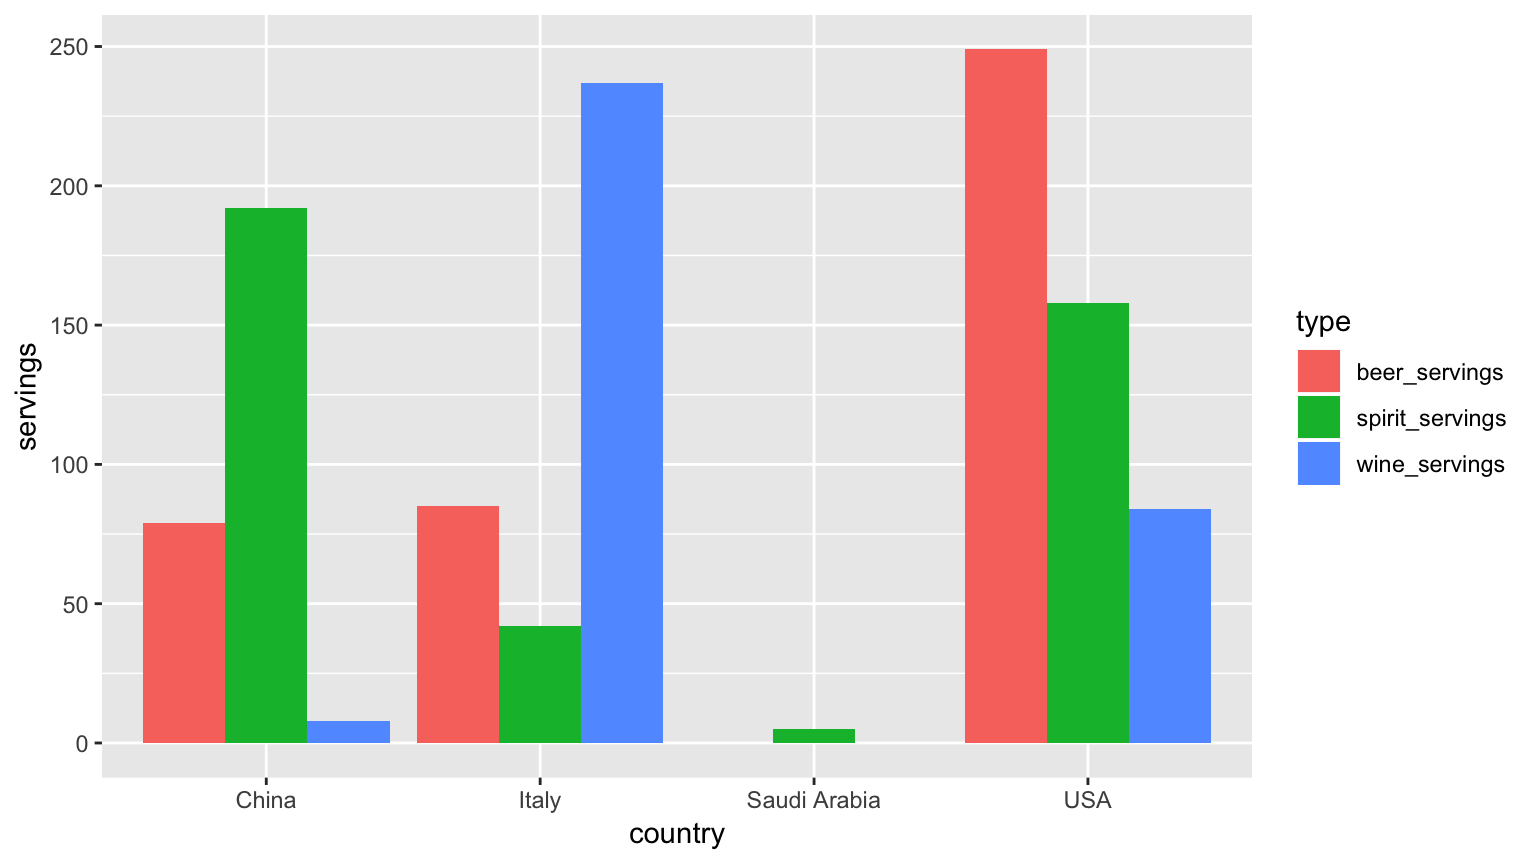
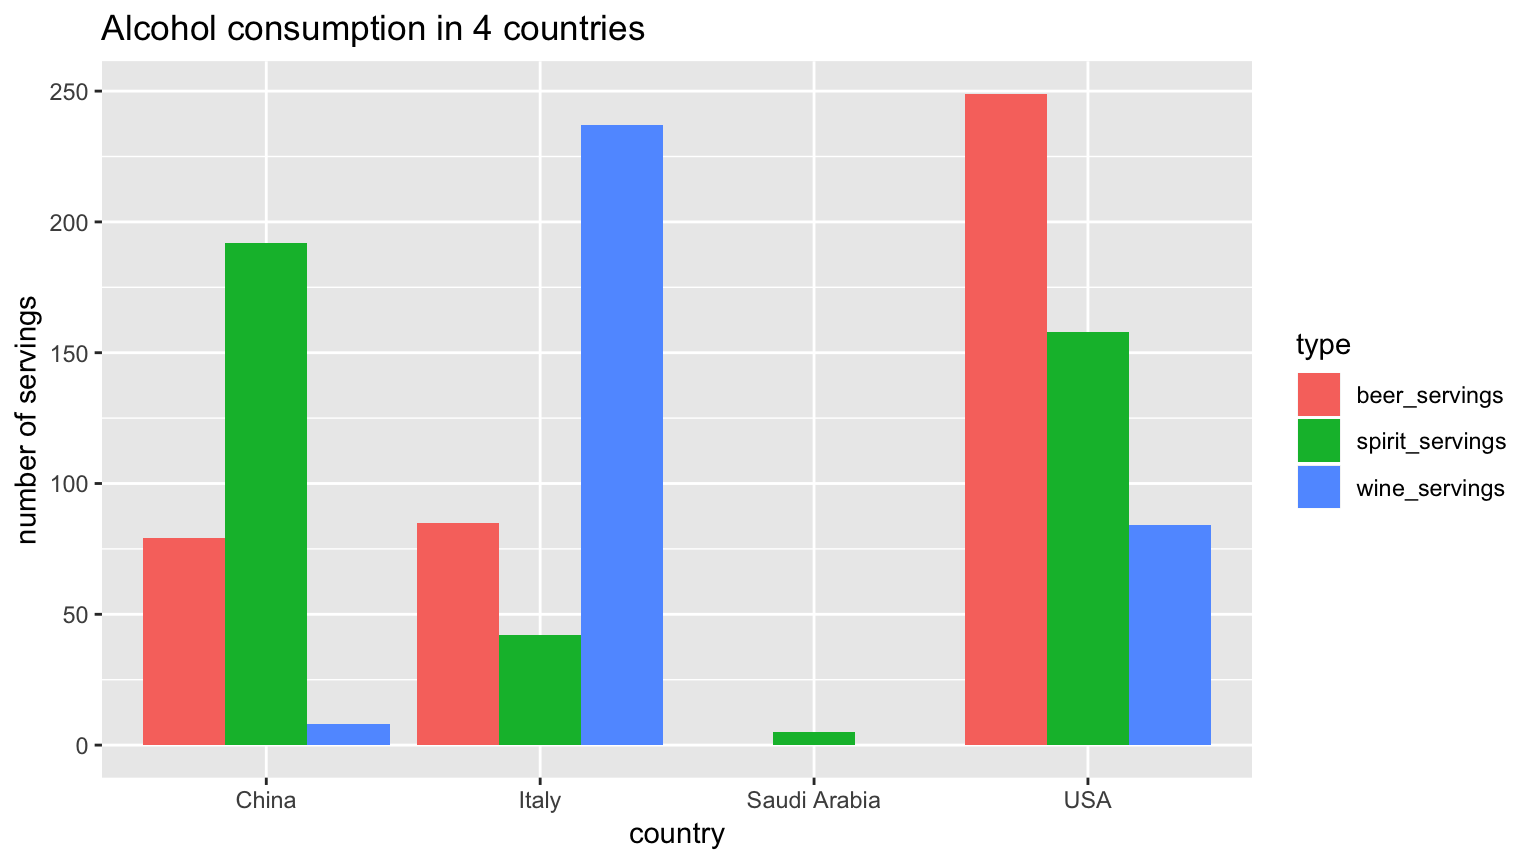
Added title to plots in Lec20

diff --git a/docs/index.html b/docs/index.html
@@ -454,7 +454,8 @@ h1{font-weight: 400;}
 <a class="sourceLine" id="cb1-20" data-line-number="20"></a>
 <a class="sourceLine" id="cb1-21" data-line-number="21"><span class="co"># 5. Make dodged barplot as seen in ModernDive 3.8.3</span></a>
 <a class="sourceLine" id="cb1-22" data-line-number="22"><span class="kw">ggplot</span>(drinks_smaller_tidy, <span class="kw">aes</span>(<span class="dt">x=</span>country, <span class="dt">y=</span>servings, <span class="dt">fill=</span>type)) <span class="op">+</span></a>
-<a class="sourceLine" id="cb1-23" data-line-number="23"><span class="st">  </span><span class="kw">geom_col</span>(<span class="dt">position =</span> <span class="st">&quot;dodge&quot;</span>)</a></code></pre></div>
+<a class="sourceLine" id="cb1-23" data-line-number="23"><span class="st">  </span><span class="kw">geom_col</span>(<span class="dt">position =</span> <span class="st">&quot;dodge&quot;</span>) <span class="op">+</span></a>
+<a class="sourceLine" id="cb1-24" data-line-number="24"><span class="st">  </span><span class="kw">labs</span>(<span class="dt">x =</span> <span class="st">&quot;country&quot;</span>, <span class="dt">y =</span> <span class="st">&quot;number of servings&quot;</span>, <span class="dt">title =</span> <span class="st">&quot;Alcohol consumption in 4 countries&quot;</span>)</a></code></pre></div>
 <p><img src="index_files/figure-html/unnamed-chunk-2-1.png" width="768" /></p>
 </div>
 <div id="in-class-exercise" class="section level3">
